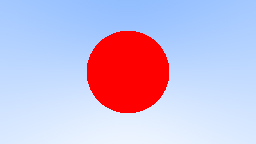
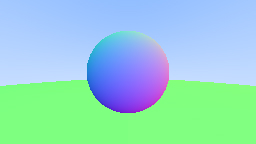
Surface Normals

diff --git a/RayTraceDemo/main.cpp b/RayTraceDemo/main.cpp
@@ -4,27 +4,36 @@
 #include "stb_image_write.h"
 
 #include "color.h"
-#include "vec3.h"
+#include "sphere.h"
 #include "utill.h"
 #include <iostream>
+#include "hittable_list.h"
 
-#include "ray.h"
-
-bool hit_sphere(const point3& center, double radius, const ray& r)
+double hit_sphere(const point3& center, double radius, const ray& r)
 {
 	vec3 oc = r.origin() - center;
-	auto a = dot(r.direction(), r.direction());
-	auto b = 2.0 * dot(oc, r.direction());
-	auto c = dot(oc, oc) - radius * radius;
-	auto discriminant = b * b - 4 * a * c;
-	return (discriminant > 0);
+	auto a = r.direction().length_squared();
+	auto half_b = dot(oc, r.direction());
+	auto c = oc.length_squared() - radius * radius;
+	auto discriminant = half_b * half_b - a * c;
+	if (discriminant < 0)
+	{
+		return -1.0;
+	}
+	else
+	{
+		return (-half_b - sqrt(discriminant)) / (2.0 * a);
+	}
 }
 
-color ray_color(const ray& r)
+color ray_color(const ray& r, const hittable& world)
 {
-	if (hit_sphere(point3(0, 0, -1), 0.5, r))
+	hit_record rec;
+	/*auto t = hit_sphere(point3(0, 0, -1), 0.5, r);*/
+	if (world.hit(r, 0, infinity, rec))
 	{
-		return color(1, 0, 0);
+		//vec3 N = unit_vector(r.at(t) - vec3(0, 0, -1));
+		return 0.5 * (rec.normal + color(1, 1, 1));//color(N.x() + 1, N.y() + 1, N.z() + 1);
 	}
 	vec3 unit_direction = unit_vector(r.direction());
 	auto t = 0.5 * (unit_direction.y() + 1.0);
@@ -38,6 +47,9 @@ int main()
 	const int image_width = 256;
 	const int image_height = static_cast<int>(image_width / aspect_ratio);
 	struct RGB data[image_height][image_width];
+	hittable_list world;
+	world.add(make_shared<sphere>(point3(0, 0, -1), 0.5));
+	world.add(make_shared<sphere>(point3(0, -100.5, -1), 100));
 	auto viewport_height = 2.0;
 	auto viewport_width = aspect_ratio * viewport_height;
 	auto focal_length = 1.0;
@@ -54,7 +66,7 @@ int main()
 			auto u = double(i) / (image_width - 1);
 			auto v = double(j) / (image_height - 1);
 			ray r(origin, lower_left_corner + u * horizontal + v * vertical - origin);
-			color pixel_color = ray_color(r);
+			color pixel_color = ray_color(r, world);
 			//color pixel_color(r,g,b);
 			RGB temp = write_color(std::cout, pixel_color);
 			data[j][i].R = temp.R;

diff --git a/RayTraceDemo/sphere.h b/RayTraceDemo/sphere.h
@@ -1,0 +1,45 @@
+#ifndef SPHERE_H
+#define SPHERE_H
+
+#include "hittable.h"
+#include "vec3.h"
+
+class sphere : public hittable
+{
+public:
+	point3 center;
+	double radius;
+
+	sphere() {}
+	sphere(point3 cen, double r) : center(cen), radius(r) {};
+	virtual bool hit(const ray& r, double t_min, double t_max, hit_record& rec) const override;
+};
+
+bool sphere::hit(const ray& r, double t_min, double t_max, hit_record& rec) const {
+	vec3 oc = r.origin() - center;
+	auto a = r.direction().length_squared();
+	auto half_b = dot(oc, r.direction());
+	auto c = oc.length_squared() - radius * radius;
+	auto discriminant = half_b * half_b - a * c;
+	if (discriminant < 0)
+	{
+		return false;
+	}
+	auto sqrtd = sqrt(discriminant);
+	auto root = (-half_b - sqrtd) / a;
+	if (root < t_min || t_max < root)
+	{
+		root = (-half_b + sqrtd) / a;
+		if (root < t_min || t_max < root)
+		{
+			return false;
+		}
+	}
+	rec.t = root;
+	rec.p = r.at(rec.t);
+	vec3 outward_normal = (rec.p - center) / radius;
+	rec.set_face_normal(r, outward_normal);
+	return true;
+}
+
+#endif

diff --git a/RayTraceDemo/hittable_list.h b/RayTraceDemo/hittable_list.h
@@ -1,0 +1,39 @@
+#ifndef HITTABLE_LIST_H
+#define HITTABLE_LIST_H
+
+#include "hittable.h"
+
+#include <memory>
+#include <vector>
+
+using std::shared_ptr;
+using std::make_shared;
+
+class hittable_list : public hittable
+{
+public:
+	hittable_list() {}
+	hittable_list(shared_ptr<hittable> object) { add(object); }
+	void clear() { objects.clear(); }
+	void add(shared_ptr<hittable> object) { objects.push_back(object); }
+	virtual bool hit(const ray& r, double t_min, double t_max, hit_record& rec) const override;
+	std::vector<shared_ptr<hittable>> objects;
+};
+
+bool hittable_list::hit(const ray& r, double t_min, double t_max, hit_record& rec) const {
+	hit_record temp_rec;
+	bool hit_anything = false;
+	auto closest_so_far = t_max;
+	for (const auto& object : objects)
+	{
+		if (object->hit(r, t_min, closest_so_far, temp_rec))
+		{
+			hit_anything = true;
+			closest_so_far = temp_rec.t;
+			rec = temp_rec;
+		}
+	}
+	return hit_anything;
+}
+
+#endif

diff --git a/RayTraceDemo/hittable.h b/RayTraceDemo/hittable.h
@@ -1,0 +1,26 @@
+#ifndef HITTABLE_H
+#define HITTABLE_H
+
+#include "ray.h"
+
+struct hit_record
+{
+	point3 p;
+	vec3 normal;
+	double t;
+	bool front_face;
+
+	inline void set_face_normal(const ray& r, const vec3& outward_normal)
+	{
+		front_face = dot(r.direction(), outward_normal) < 0;
+		normal = front_face ? outward_normal : -outward_normal;
+	}
+};
+
+class hittable
+{
+public:
+	virtual bool hit(const ray& r, double t_min, double t_max, hit_record& rec) const = 0;
+};
+
+#endif

diff --git a/RayTraceDemo/utill.h b/RayTraceDemo/utill.h
@@ -1,7 +1,23 @@
 #pragma once
+#include <cmath>
+#include <limits>
+#include <memory>
+#include "ray.h"
+#include "vec3.h"
+
 struct RGB
 {
 	unsigned char R;
 	unsigned char G;
 	unsigned char B;
 };
+
+using std::shared_ptr;
+using std::make_shared;
+using std::sqrt;
+const double infinity = std::numeric_limits<double>::infinity();
+const double pi = 3.1415926535897932385;
+inline double degrees_to_radians(double degrees)
+{
+	return degrees * pi / 180.0;
+}
